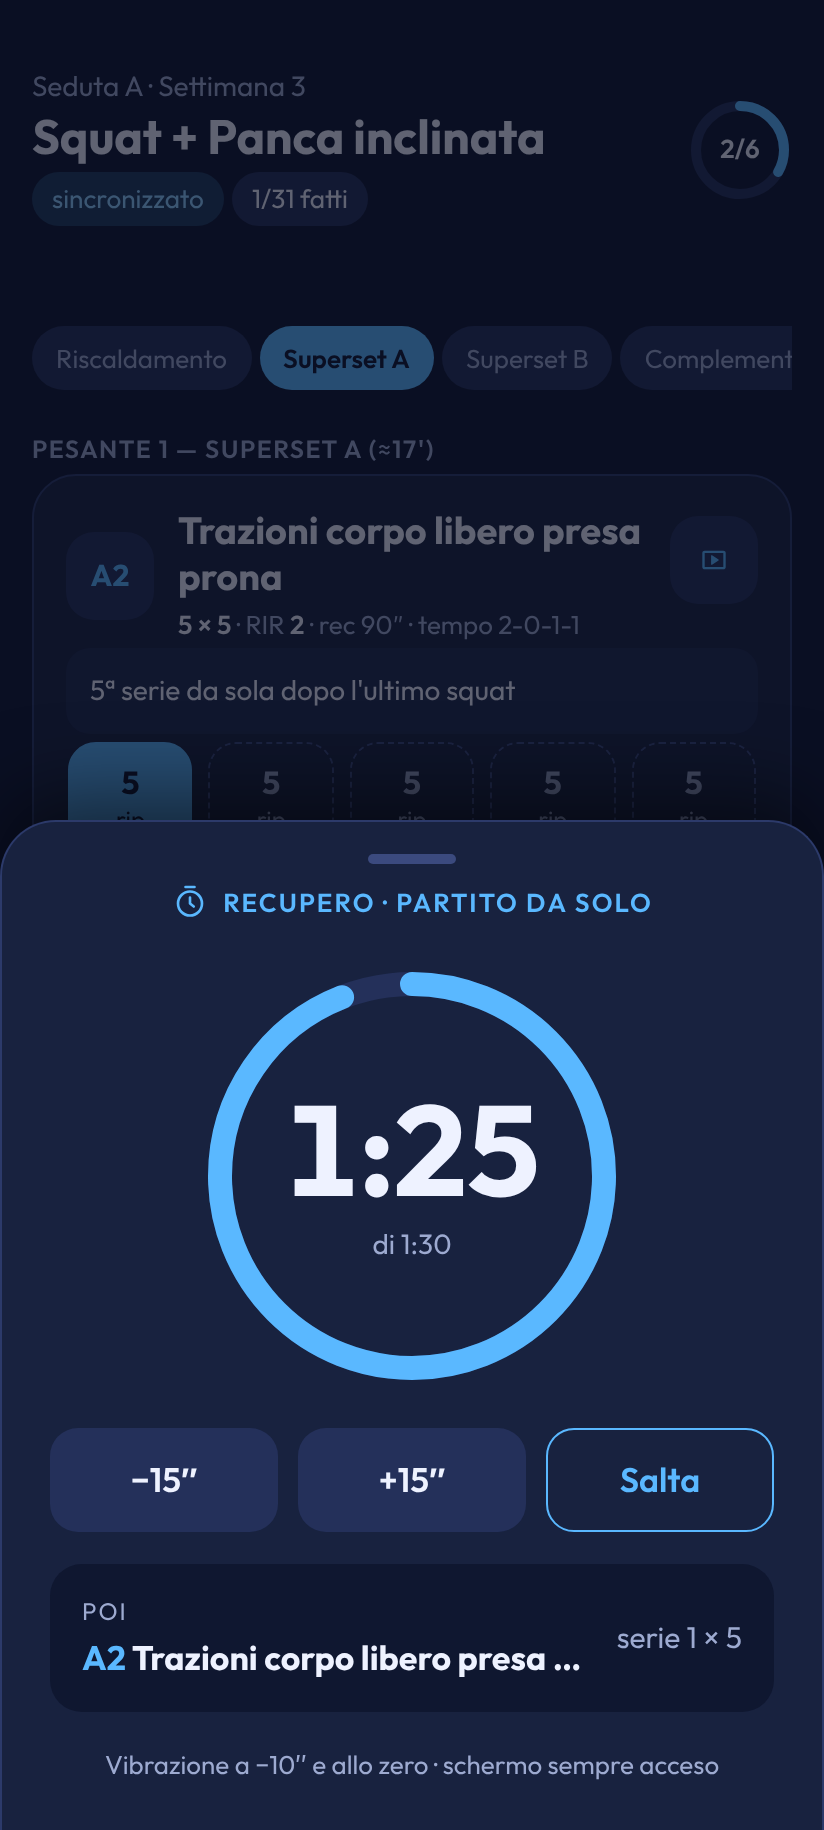
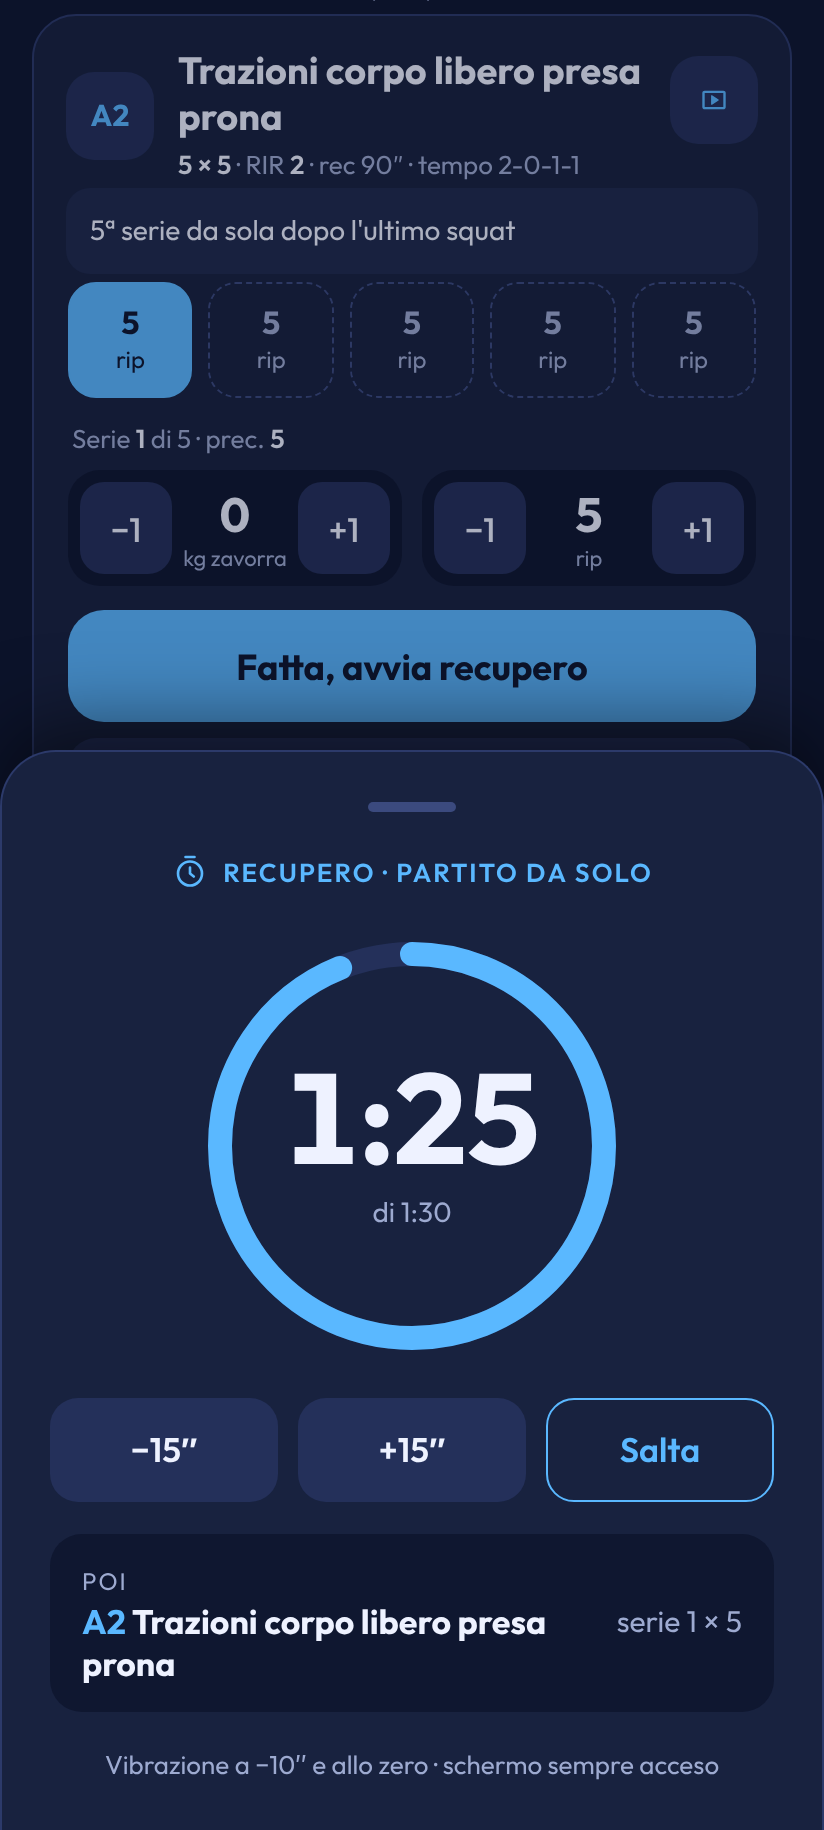
Correzioni dalla revisione: precompilazione, timer raggiungibile, note utente
- Precompilazione: i carichi dell'ultima seduta si ripropongono come sono
  (102,5 resta 102,5); al passo vanno solo startingLoadKg e i suggerimenti,
  mai sotto l'ultimo carico. "Resta a X kg" mostra il valore reale.
- Timer: lo strato oscurato non intercetta i tocchi; quando parte il
  recupero la pagina scorre perché il tasto "Fatta" dell'esercizio successivo
  resti sopra il pannello (se non c'è spazio il pannello parte ridotto).
  Nome in "Poi" su due righe, barra ridotta "Poi A2 · serie N", maniglia
  alta 44 px, "partito da solo" solo se avviato da "Fatta".
- Migrazione: le note cambiano solo se sono ancora quelle originali di
  plan_v1; quelle scritte dall'utente restano intatte.
- Nuovi test; screenshot del timer aggiornati.

Claude-Session: https://claude.ai/code/session_01DoZJZNqdDkaMAtoNVrRRhF

diff --git a/lib/components/web/shared.js b/lib/components/web/shared.js
@@ -122,7 +122,7 @@
       box = document.createElement("div");
       box.id = "allen-rest";
       box.innerHTML =
-        '<div class="ar-dim" data-a="min"></div>' +
+        '<div class="ar-dim"></div>' +
         '<div class="ar-sheet" role="dialog" aria-label="Recupero">' +
         '<button class="ar-handle" data-a="toggle" aria-label="Riduci o apri il pannello del recupero"><i></i></button>' +
         '<div class="ar-full">' +
@@ -139,11 +139,11 @@
       const st = document.createElement("style");
       st.textContent =
         "#allen-rest{display:none;font-family:'Outfit',system-ui,sans-serif;color:#EEF2FF}" +
-        "#allen-rest .ar-dim{position:fixed;inset:0;z-index:99998;background:rgba(8,12,28,.62);transition:opacity .2s}" +
+        "#allen-rest .ar-dim{position:fixed;inset:0;z-index:99998;background:rgba(8,12,28,.28);pointer-events:none}" +
         "#allen-rest .ar-sheet{position:fixed;left:0;right:0;bottom:0;z-index:99999;max-width:560px;margin:0 auto;background:#18223F;border:1px solid #2C3A6A;border-bottom:0;" +
         "border-radius:28px 28px 0 0;box-shadow:0 -12px 40px rgba(0,0,0,.5);padding:6px 24px calc(22px + env(safe-area-inset-bottom));transition:transform .22s ease;touch-action:none}" +
-        "#allen-rest .ar-handle{display:block;margin:0 auto;width:84px;height:24px;border:0;background:transparent;padding:0}" +
-        "#allen-rest .ar-handle i{display:block;margin:8px auto;width:44px;height:5px;border-radius:3px;background:#3B4A7E}" +
+        "#allen-rest .ar-handle{display:block;margin:0 auto;width:120px;height:44px;border:0;background:transparent;padding:0}" +
+        "#allen-rest .ar-handle i{display:block;margin:0 auto;width:44px;height:5px;border-radius:3px;background:#3B4A7E}" +
         "#allen-rest .ar-full{display:flex;flex-direction:column;align-items:center;gap:16px}" +
         "#allen-rest .ar-lab{display:flex;align-items:center;gap:8px;font-size:13px;letter-spacing:.08em;text-transform:uppercase;color:#5AB8FF;font-weight:600}" +
         "#allen-rest .ar-ring{position:relative;width:220px;height:220px}#allen-rest .ar-ring svg{position:absolute;inset:0;transform:rotate(-90deg)}" +
@@ -158,7 +158,7 @@
         "#allen-rest .ar-next{width:100%;box-sizing:border-box;background:#0F1730;border-radius:16px;padding:14px 16px;display:flex;justify-content:space-between;align-items:center;gap:10px}" +
         "#allen-rest .ar-next>div:first-child{min-width:0}" +
         "#allen-rest .ar-nk{font-size:12px;letter-spacing:.08em;text-transform:uppercase;color:#9DAAD0}" +
-        "#allen-rest .ar-nn{font-size:17px;font-weight:700;white-space:nowrap;overflow:hidden;text-overflow:ellipsis}#allen-rest .ar-nn b{color:#5AB8FF}" +
+        "#allen-rest .ar-nn{font-size:17px;font-weight:700;line-height:1.25;display:-webkit-box;-webkit-box-orient:vertical;-webkit-line-clamp:2;overflow:hidden}#allen-rest .ar-nn b{color:#5AB8FF}" +
         "#allen-rest .ar-nr{font-size:15px;color:#9DAAD0;white-space:nowrap}" +
         "#allen-rest .ar-foot{font-size:13px;color:#9DAAD0;text-align:center}" +
         "#allen-rest .ar-mini{display:none;align-items:center;gap:6px;padding:2px 0 4px}" +
@@ -168,7 +168,7 @@
         "#allen-rest .ar-bar{display:none;height:4px;background:#24305A;border-radius:2px;overflow:hidden;margin-top:6px}#allen-rest .ar-fill{height:100%;background:#5AB8FF;width:0}" +
         "#allen-rest.min .ar-dim{display:none}#allen-rest.min .ar-full{display:none}#allen-rest.min .ar-mini{display:flex}#allen-rest.min .ar-bar{display:block}" +
         "#allen-rest.min .ar-sheet{padding:0 14px calc(10px + env(safe-area-inset-bottom));border-radius:22px 22px 0 0}" +
-        "#allen-rest.min .ar-handle{height:18px}#allen-rest.min .ar-handle i{margin:6px auto}" +
+        "#allen-rest.min .ar-handle{height:44px;margin-bottom:-12px}" +
         "#allen-rest.done .ar-t,#allen-rest.done .ar-mt{color:#5AB8FF}";
       document.head.appendChild(st);
       document.body.appendChild(box);
@@ -229,7 +229,8 @@
       const nName = nx.name ? ((nx.code ? "<b>" + esc(nx.code) + "</b> " : "") + esc(nx.name)) : esc(v.label || "Fine blocco");
       b.querySelector(".ar-nn").innerHTML = nName;
       b.querySelector(".ar-nr").textContent = (nx.set ? "serie " + nx.set + " " : "") + (nx.reps || "");
-      b.querySelector(".ar-ml").innerHTML = (rem > 0 ? "Recupero" : "Recupero finito") + (nx.name ? " · poi " + nName : "");
+      const short = nx.code ? "<b>" + esc(nx.code) + "</b>" + (nx.set ? " · serie " + nx.set : "") : (nx.set ? "serie " + nx.set : "");
+      b.querySelector(".ar-ml").innerHTML = rem > 0 ? (short ? "Poi " + short : "Recupero") : "Recupero finito";
       const foot = [];
       if (v.vibrate !== false) foot.push("Vibrazione a −10″ e allo zero");
       else if (v.sound !== false) foot.push("Beep allo zero");
@@ -240,7 +241,7 @@
       b.querySelector(".ar-fill").style.width = (100 * (1 - frac)) + "%";
       if (rem > 0) {
         b.classList.remove("done");
-        b.querySelector(".ar-lab span").textContent = v.started === false ? "Recupero" : "Recupero · partito da solo";
+        b.querySelector(".ar-lab span").textContent = v.started ? "Recupero · partito da solo" : "Recupero";
         b.querySelector(".ar-t").textContent = fmt(rem);
         b.querySelector(".ar-mt").textContent = fmt(rem);
         if (rem <= 10 && !v.warned) {
@@ -260,7 +261,47 @@
         }
         if (now - v.end > 12000) { put(null); b.style.display = "none"; }
       }
+      pad(b.style.display !== "none" && !v.min);
     }
+    // spazio in fondo alla pagina finché il pannello è aperto: così si può far salire il tasto "Fatta" sopra il pannello
+    function pad(on) {
+      const c = document.querySelector('[data-testid="stMainBlockContainer"]') || document.querySelector(".block-container");
+      if (!c) return;
+      const sheet = box && box.querySelector(".ar-sheet");
+      if (on && sheet) c.style.setProperty("padding-bottom", (sheet.offsetHeight + 60) + "px", "important");
+      else c.style.removeProperty("padding-bottom");
+    }
+    function scroller() {
+      const cands = [document.querySelector('[data-testid="stMain"]'), document.querySelector('[data-testid="stAppViewContainer"]'),
+                     document.querySelector(".main"), document.scrollingElement];
+      for (const el of cands) {
+        if (!el) continue;
+        const oy = getComputedStyle(el).overflowY;
+        if (el.scrollHeight > el.clientHeight + 1 && (el === document.scrollingElement || oy === "auto" || oy === "scroll")) return el;
+      }
+      return document.scrollingElement;
+    }
+    // Il registro serie dell'esercizio che viene dopo chiede di restare raggiungibile: la pagina scorre in modo che
+    // il suo tasto "Fatta" stia sopra il pannello; se lo spazio non basta il pannello si riduce a barra.
+    R.wantsReveal = function (key) {
+      const v = get();
+      return !!(v && !v.revealed && v.target && v.target === key && v.end > Date.now());
+    };
+    R.reveal = function (top, bottom) {
+      const v = get();
+      if (!v || v.revealed) return;
+      v.revealed = true;
+      const b = ensureBox();
+      const sheet = b.querySelector(".ar-sheet");
+      let limit = sheet.getBoundingClientRect().top - 14;
+      if (!v.min && limit - 8 < (bottom - top) + 16) { v.min = true; }
+      put(v); render();
+      limit = sheet.getBoundingClientRect().top - 14;
+      let delta = 0;
+      if (bottom > limit) delta = bottom - limit;
+      else if (top < 8) delta = top - 8;
+      if (delta) { const sc = scroller(); sc.scrollTop += delta; }
+    };
     R.render = render;
     R.start = function (sec, label, opts) {
       opts = opts || {};
@@ -268,7 +309,8 @@
       R.keepAwake = opts.wakeLock !== false;
       if (R.keepAwake) R.wake();
       put({ end: Date.now() + sec * 1000, dur: sec, label: label || "", fired: false, warned: false, min: false,
-            next: opts.next || null, sound: opts.sound, vibrate: opts.vibrate });
+            next: opts.next || null, target: (opts.next && opts.next.key) || null, revealed: false,
+            started: !!opts.started, sound: opts.sound, vibrate: opts.vibrate });
       render();
     };
     setInterval(render, 250);

diff --git a/lib/components/web/index.html b/lib/components/web/index.html
@@ -211,6 +211,24 @@
     }
     root.innerHTML = h;
     L.setHeight(Math.ceil(root.getBoundingClientRect().height) + 6);
+    maybeReveal();
+  }
+
+  // dopo "Fatta": se questo è l'esercizio che viene dopo, il suo tasto "Fatta" deve restare sopra il pannello del recupero
+  function maybeReveal(tries) {
+    let R = null;
+    try { R = window.parent.__allenRest; } catch (e) { return; }
+    if (!R || !R.wantsReveal || !R.wantsReveal(A.exKey)) return;
+    setTimeout(function () {
+      const ok = document.querySelector(".ok");
+      let fr = null;
+      try { fr = window.frameElement && window.frameElement.getBoundingClientRect(); } catch (e) {}
+      if (!ok || !fr) return;
+      // aspetta che Streamlit abbia dato all'iframe l'altezza giusta
+      if (fr.height < root.getBoundingClientRect().height - 2 && (tries || 0) < 6) { maybeReveal((tries || 0) + 1); return; }
+      const r = ok.getBoundingClientRect();
+      R.reveal(fr.top + r.top, fr.top + r.bottom);
+    }, 250);
   }
 
   // "Poi: …" nel pannello del timer. Fuori dai superset la prossima è la serie successiva di questo esercizio.
@@ -219,8 +237,8 @@
     if (nx.code || nx.name) return nx;
     const sets = mergedSets();
     const s = sets.find(x => !x.done && x.n !== n);
-    if (!s) return { name: "Fine esercizio", code: "", set: null, reps: "" };
-    return { code: A.code || "", name: A.name || "", set: s.n, reps: "× " + fmt(s.reps) + ((A.unit || "rip") === "rip" ? "" : " " + A.unit) };
+    if (!s) return { name: "Fine esercizio", code: "", set: null, reps: "", key: null };
+    return { key: A.exKey, code: A.code || "", name: A.name || "", set: s.n, reps: "× " + fmt(s.reps) + ((A.unit || "rip") === "rip" ? "" : " " + A.unit) };
   }
 
   function readInputs() {
@@ -250,7 +268,7 @@
       const s = sets[sel];
       const wasDone = s.done;
       emit({ type: "set", n: s.n, kg: A.kgMode === "none" ? null : (A.kgMode === "vest" ? s.kg : edit.kg), reps: edit.reps, done: true });
-      if (!wasDone && A.restSec) L.startRest(A.restSec, A.restLabel, { sound: A.sound, vibrate: A.vibrate, wakeLock: A.wakeLock, next: nextInfo(s.n) });
+      if (!wasDone && A.restSec) L.startRest(A.restSec, A.restLabel, { sound: A.sound, vibrate: A.vibrate, wakeLock: A.wakeLock, next: nextInfo(s.n), started: true });
       sel = null; edit = null;
     }
     if (a === "undo") { const s = sets[sel]; emit({ type: "set", n: s.n, kg: s.kg, reps: s.reps, done: false }); }

diff --git a/lib/logic.py b/lib/logic.py
@@ -251,7 +251,8 @@ def suggest_progression(plan: dict, session_id: str, exercise_id: str, logs: lis
             if sugg_kg is None and nxt.get("loadKgDelta"):
                 sugg_kg = kg + nxt["loadKgDelta"]
             if sugg_kg is not None and ex_def:
-                sugg_kg = snap_kg(ex_def, sugg_kg)
+                # al passo dell'attrezzo, ma mai sotto l'ultimo carico registrato
+                sugg_kg = max(snap_kg(ex_def, sugg_kg), kg)
             txt = f"Ultima volta {trig['sets']}×{trig['reps']} a {_fmt_kg(kg)} kg completato. Regola: {rule['rule']}"
             if trig.get("rirMin") is not None:
                 txt += f" (vale se avevi ancora ~{trig['rirMin']} rip di margine: controlla le note)"
@@ -262,7 +263,7 @@ def suggest_progression(plan: dict, session_id: str, exercise_id: str, logs: lis
             return {"kind": "increase", "text": txt, "suggestKg": sugg, "short": short}
         reps_txt = "-".join(f"{s.get('reps'):g}" if isinstance(s.get('reps'), float) else str(s.get("reps")) for s in at_kg)
         return {"kind": "hold", "suggestKg": None,
-                "short": f"Resta a {_fmt_kg(snap_kg(ex_def, kg) if ex_def else kg)} kg, punta a {trig['sets']}×{trig['reps']}",
+                "short": f"Resta a {_fmt_kg(kg)} kg, punta a {trig['sets']}×{trig['reps']}",
                 "text": f"Ultima volta {_fmt_kg(kg)} kg: {reps_txt}. Resta su questo carico e aggiungi ripetizioni "
                         f"fino a {trig['sets']}×{trig['reps']}."}
     rmax = ex_def.get("repsMax")
@@ -335,12 +336,12 @@ def build_sets(ex_def: dict, presc: dict, prev_ex: dict | None, vest: float | No
         if mode == "vest":
             kg = vest
         elif mode == "bw":
-            kg = snap_kg(ex_def, ps.get("kg")) if ps and ps.get("kg") is not None else 0
+            kg = ps.get("kg") if ps and ps.get("kg") is not None else 0
         elif mode == "none":
             kg = ps.get("kg") if ps else None
         else:
-            kg = ps.get("kg") if ps and ps.get("kg") is not None else ex_def.get("startingLoadKg")
-            kg = snap_kg(ex_def, kg)
+            # lo storico si ripropone com'è (anche 102,5); solo il carico iniziale del piano va al passo
+            kg = ps.get("kg") if ps and ps.get("kg") is not None else snap_kg(ex_def, ex_def.get("startingLoadKg"))
         reps = ps.get("reps") if ps and ps.get("reps") else (presc.get("repsMin") or presc.get("repsMax"))
         out.append({"n": i + 1, "kg": kg, "reps": reps, "done": False, "t": 0, "rev": 0, "prev": prev})
     return out
@@ -824,14 +825,14 @@ def rest_info(draft: dict, keys: list[str], idx: int) -> dict:
         e = exs[(idx + j) % len(exs)]
         if e and e.get("sets") and undone(e) > 0:
             s = _next_set(e)
-            return {"label": f"poi {e.get('code') or ''} {e['name']}".replace("  ", " "), "code": e.get("code") or "",
+            return {"label": f"poi {e.get('code') or ''} {e['name']}".replace("  ", " "), "key": e["key"], "code": e.get("code") or "",
                     "name": e["name"], "set": s["n"] if s else None, "reps": _reps_txt(e, s)}
     me = exs[idx] if exs else None
     if me and undone(me) > 1:
         s = _next_set(me, 1)
-        return {"label": "poi la serie successiva", "code": me.get("code") or "", "name": me["name"],
+        return {"label": "poi la serie successiva", "key": me["key"], "code": me.get("code") or "", "name": me["name"],
                 "set": s["n"] if s else None, "reps": _reps_txt(me, s)}
-    return {"label": "fine blocco", "code": "", "name": "Fine blocco", "set": None, "reps": ""}
+    return {"label": "fine blocco", "key": None, "code": "", "name": "Fine blocco", "set": None, "reps": ""}
 
 
 def active_exercise(draft: dict, keys: list[str]) -> int:

diff --git a/tests/test_logic.py b/tests/test_logic.py
@@ -314,13 +314,28 @@ def test_round_kg():
     assert P.round_kg(14, 4, "kettlebell") == 14  # kettlebell: pesi fissi, non si arrotonda
 
 
-def test_prefill_rounds_to_step(plan):
-    """Precompilazione da una seduta con 102,5 kg (vecchio passo 2,5) → multiplo di 5."""
+def test_prefill_keeps_history_values(plan):
+    """Una seduta precedente a 102,5 si precompila a 102,5: lo storico non si arrotonda mai."""
     l1 = mk_log(plan, "A", "2026-10-19", {"back-squat": [(102.5, 5), (107.5, 4)]})
     d = L.new_draft(plan, "A", [l1], week=1, day=date(2026, 10, 26), now_ms=T0)
     sq = L.find_ex(d, "A-superset-a:back-squat")
-    assert [s["kg"] for s in sq["sets"]] == [100, 105, 105, 105]
-    assert sq["sets"][0]["prev"] == {"kg": 102.5, "reps": 5}  # il "precedente" resta quello vero
+    assert [s["kg"] for s in sq["sets"]] == [102.5, 107.5, 107.5, 107.5]
+    assert sq["sets"][0]["prev"] == {"kg": 102.5, "reps": 5}
+    l2 = mk_log(plan, "B", "2026-10-21", {"military-press": [(32.5, 8)] * 4})
+    d2 = L.new_draft(plan, "B", [l2], week=1, day=date(2026, 10, 28), now_ms=T0)
+    assert L.find_ex(d2, "B-superset-b:military-press")["sets"][0]["kg"] == 32.5
+    l3 = mk_log(plan, "A", "2026-10-19", {"trazioni-prona": [(2.5, 5)] * 4})
+    d3 = L.new_draft(plan, "A", [l3], week=1, day=date(2026, 10, 26), now_ms=T0)
+    assert L.find_ex(d3, "A-superset-a:trazioni-prona")["sets"][0]["kg"] == 2.5
+
+
+def test_prefill_starting_load_snapped_to_step(plan):
+    """Senza storico si parte da startingLoadKg, portato al passo dell'attrezzo."""
+    import copy as _c
+    p = _c.deepcopy(plan)
+    P.find_exercise(p, "A", "back-squat")[1]["startingLoadKg"] = 102.5
+    d = L.new_draft(p, "A", [], week=1, day=date(2026, 10, 26), now_ms=T0)
+    assert L.find_ex(d, "A-superset-a:back-squat")["sets"][0]["kg"] == 100
     l2 = mk_log(plan, "C", "2026-10-23", {"trazioni-zavorrate-prona": [(8, 4)] * 4})
     d2 = L.new_draft(plan, "C", [l2], week=1, day=date(2026, 10, 30), now_ms=T0)
     assert [s["kg"] for s in L.find_ex(d2, "C-vest:trazioni-zavorrate-prona")["sets"]] == [8] * 4
@@ -330,8 +345,12 @@ def test_suggestion_rounds_to_step(plan):
     l1 = mk_log(plan, "C", "2026-10-23", {"affondi-bulgari-bilanciere": [(22.5, 12)] * 3})
     s = L.suggest_progression(plan, "C", "affondi-bulgari-bilanciere", [l1])
     assert s["suggestKg"] == 30 and s["short"] == "Prova 30 kg"   # 22,5 + 10 = 32,5 → 30
-    l2 = mk_log(plan, "A", "2026-10-19", {"back-squat": [(100, 6), (100, 5), (100, 5), (100, 4)]})
-    assert L.suggest_progression(plan, "A", "back-squat", [l2])["short"].startswith("Resta a 100 kg")
+    l2 = mk_log(plan, "A", "2026-10-19", {"back-squat": [(102.5, 6), (102.5, 5), (102.5, 5), (102.5, 4)]})
+    assert L.suggest_progression(plan, "A", "back-squat", [l2])["short"].startswith("Resta a 102.5 kg")
+    # mai sotto l'ultimo carico: regola "→ 110 kg" ma l'ultima volta 112,5 → nessun calo suggerito
+    l3 = mk_log(plan, "A", "2026-10-19", {"back-squat": [(112.5, 6)] * 4})
+    s3 = L.suggest_progression(plan, "A", "back-squat", [l3])
+    assert s3["suggestKg"] is None or s3["suggestKg"] >= 112.5
 
 
 def test_warmup_rounds(plan):

diff --git a/tests/test_plan.py b/tests/test_plan.py
@@ -130,7 +130,7 @@ def test_migrate_plan_adds_missing_fields_and_keeps_user_edits(plan):
     _, msq = P.find_exercise(m, "A", "back-squat")
     assert msq["cue"] == P.find_exercise(plan, "A", "back-squat")[1]["cue"]
     assert msq["kgStep"] == 5 and msq["sets"] == 5
-    assert msq["notes"] == "Mia nota personale."
+    assert msq["notes"].endswith("Mia nota personale.") and "foglio" in msq["notes"]  # nota dell'utente: intatta
     _, mtr = P.find_exercise(m, "C", "trazioni-zavorrate-prona")
     assert mtr["cue"] == "cue mia" and mtr["kgStep"] == 2
     # la cue dipende dalla seduta quando lo stesso esercizio compare in più sedute
@@ -156,3 +156,14 @@ def test_update_exercise_cue_and_kg_step(plan):
     newp = P.update_exercise(plan, "A", "A-superset-a", "back-squat", {"cue": "Nuova", "kgStep": None})
     _, sq = P.find_exercise(newp, "A", "back-squat")
     assert sq["cue"] == "Nuova" and "kgStep" not in sq and P.kg_step(sq) == 5
+
+
+def test_migrate_cleans_only_untouched_v1_notes(plan):
+    old = copy.deepcopy(plan)
+    _, sq = P.find_exercise(old, "A", "back-squat")
+    sq["notes"] = "Carico e regola di progressione: foglio 'Carichi e Progressione'. " + sq["notes"]  # testo originale v1
+    _, st = P.find_exercise(old, "B", "stacco-da-terra")
+    st["notes"] = "Vedi foglio 'Carichi e Progressione'. Scritta da me."
+    m = P.migrate_plan(old, plan)
+    assert P.find_exercise(m, "A", "back-squat")[1]["notes"] == P.find_exercise(plan, "A", "back-squat")[1]["notes"]
+    assert P.find_exercise(m, "B", "stacco-da-terra")[1]["notes"] == "Vedi foglio 'Carichi e Progressione'. Scritta da me."

diff --git a/lib/plan.py b/lib/plan.py
@@ -200,7 +200,9 @@ def strip_sheet_refs(text: str | None) -> str | None:
 def migrate_plan(plan: dict, default: dict | None = None) -> dict:
     """Completa un piano salvato (copia di plan_v1) con i campi nuovi presi dal piano predefinito,
     senza toccare quello che l'utente ha cambiato: aggiunge 'cue' e 'kgStep' solo se mancano
-    (prima per seduta+blocco+esercizio, poi per exerciseId) e toglie i rimandi al foglio dalle note."""
+    (prima per seduta+blocco+esercizio, poi per exerciseId). Le note si toccano solo se sono ancora
+    quelle originali di plan_v1 (con il rimando al foglio): allora diventano quelle nuove del piano
+    predefinito. Le note scritte dall'utente restano com'erano."""
     if default is None:
         default = load_default_plan()
     p = copy.deepcopy(plan)
@@ -214,8 +216,9 @@ def migrate_plan(plan: dict, default: dict | None = None) -> dict:
         for field in ("cue", "kgStep"):
             if field not in e and src.get(field) not in (None, ""):
                 e[field] = src[field]
-        if e.get("notes"):
-            e["notes"] = strip_sheet_refs(e["notes"])
+        note = e.get("notes")
+        if note and "foglio" in note and src.get("notes") is not None and strip_sheet_refs(note) == src["notes"]:
+            e["notes"] = src["notes"]
     return p
 
 

diff --git a/README.md b/README.md
@@ -43,12 +43,16 @@ L'obiettivo principale è **non perdere mai i dati**, anche quando in palestra l
   della **stessa seduta** (A con A) e della stessa serie; la prima volta con il **minimo** del range di ripetizioni.
   Registrare una serie è **un tap su "Fatta, avvia recupero"**; per correggere ci sono gli stepper affiancati
   **±kg** (5 kg per il bilanciere, 4 kg per le kettlebell, 1 kg per giubbotto/zavorra, oppure il campo `kgStep`
-  del piano; precompilazione e suggerimenti arrotondano allo stesso passo) e **±1 rip** (o si scrive il numero).
+  del piano; i tasti ± portano al multiplo del passo, il carico iniziale del piano e i suggerimenti vengono
+  arrotondati al passo ma mai sotto l'ultimo carico, mentre i valori dell'ultima seduta si ripropongono come sono,
+  anche 102,5) e **±1 rip** (o si scrive il numero).
   Toccando un chip si corregge quella serie. Si può aggiungere una **serie extra** (es. la 5ª trazione) o toglierne una.
 - **Timer di recupero** che parte da solo dopo "Fatta" (durata presa dal piano, es. "60-90''" → 90 s): pannello
   che sale dal basso con l'anello che si svuota, −15″ / +15″ / Salta e il riquadro "Poi: A2 Trazioni · serie 3 × 5".
-  Vibrazione a −10″ e allo zero, beep e lampeggio a fine recupero, schermo acceso. Trascinandolo in basso (o
-  toccando la maniglia) si riduce a una barra, così si possono correggere i valori durante il recupero. Si basa
+  Vibrazione a −10″ e allo zero, beep e lampeggio a fine recupero, schermo acceso. Il pannello non blocca la
+  pagina: la pagina scorre da sola in modo che il tasto "Fatta" dell'esercizio successivo (il partner del superset)
+  resti visibile sopra il pannello, quindi la serie dopo si segna con un tocco anche col timer aperto; se lo
+  spazio non basta il pannello parte ridotto. Trascinandolo in basso (o toccando la maniglia) si riduce a una barra. Si basa
   sull'orario di fine salvato nel telefono, quindi sopravvive ai rerun e ai refresh.
 - **Riscaldamento EMOM**: per ogni esercizio una spunta per giro (2 giri × 5); col timer a intervalli
   di 1' (facoltativo) i giri si spuntano da soli a fine minuto.
